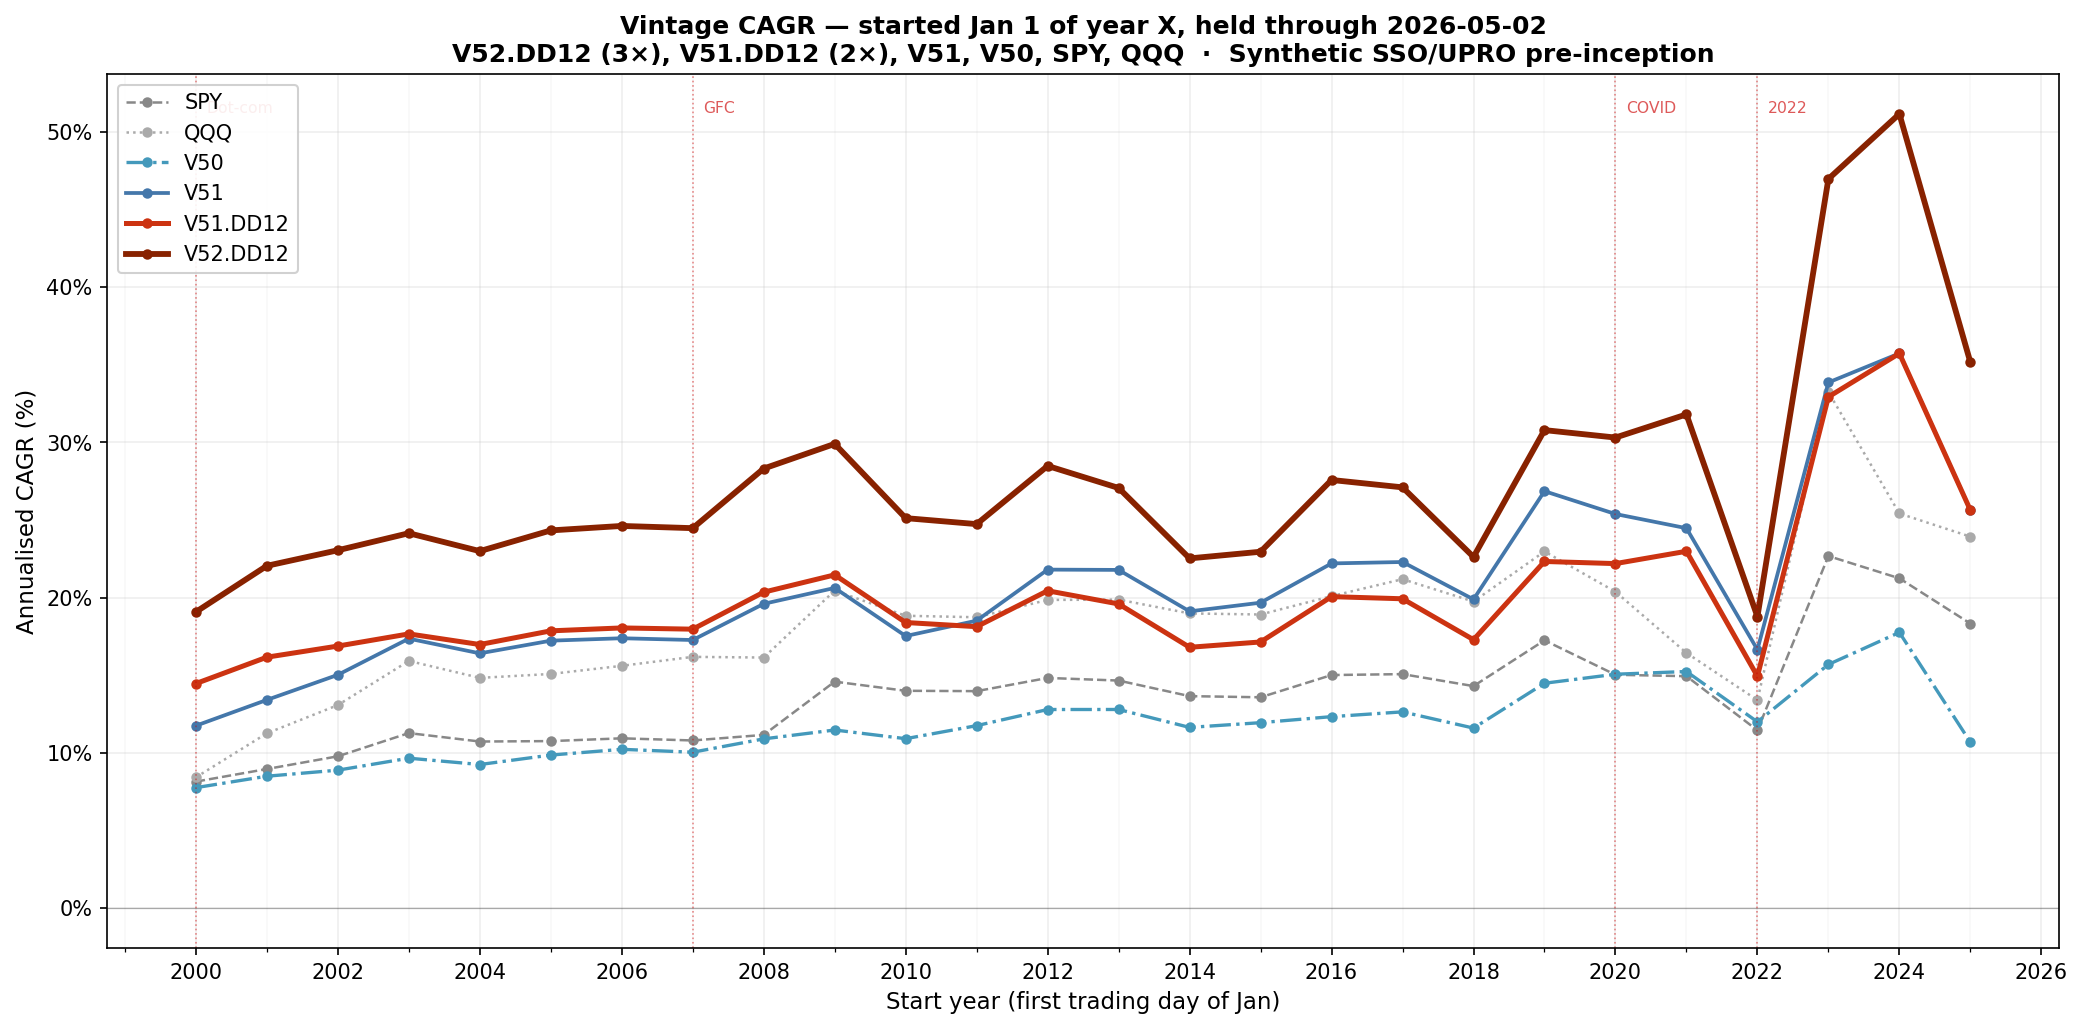
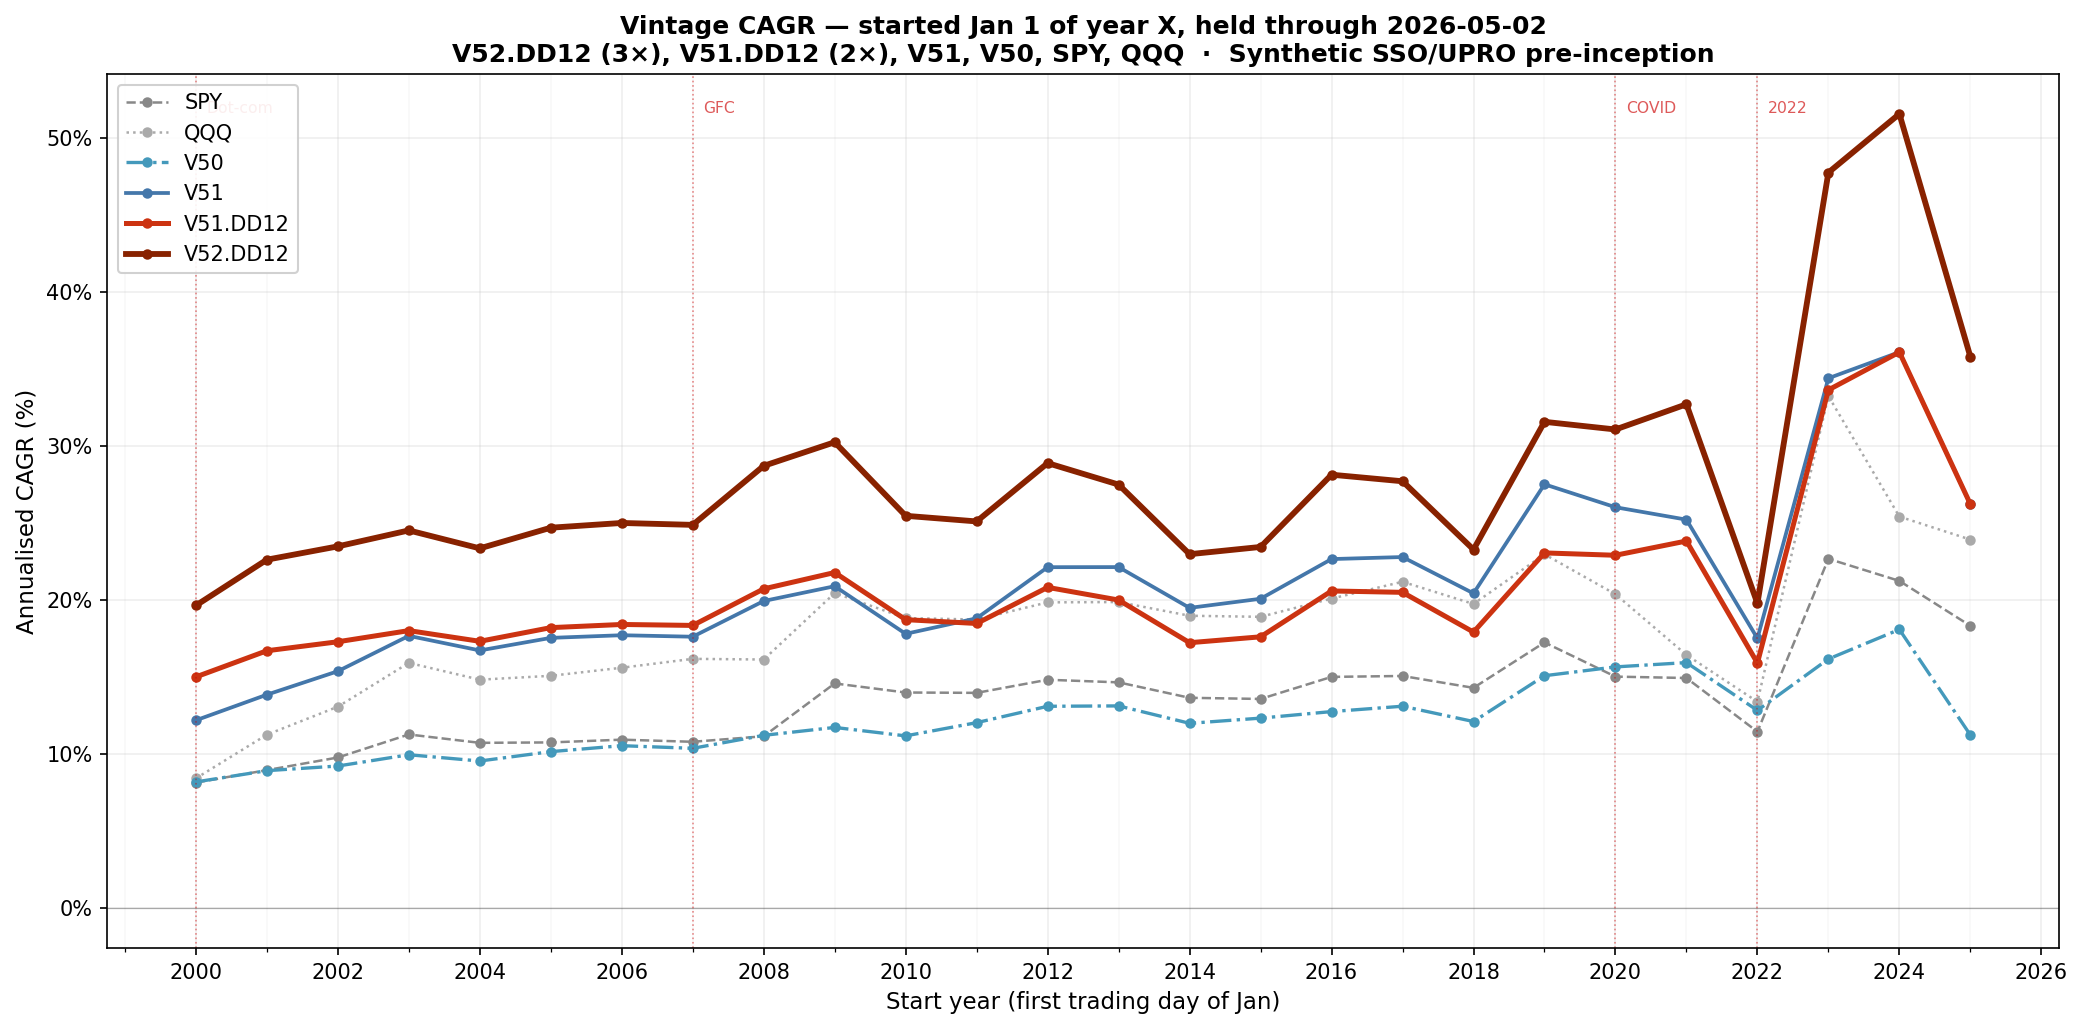
Sync docs from private repo @ abc4b7c9d494410ace7f7045b9f455e9c3b2d222

diff --git a/alpha_summary.md b/alpha_summary.md
@@ -12,19 +12,20 @@
 |---|---|---|---|---|---|---|---|---|
 | SPY B&H | 8.2% | 55.2% | 0.15 | 44.4% | 55.2% | 33.7% | 24.5% | $789k |
 | QQQ B&H | 8.4% | 83.0% | 0.10 | 78.8% | 52.0% | 28.6% | 34.3% | $843k |
-| V50 (SPY 1×, regime only) | 7.7% | 30.1% | 0.26 | 30.1% | 18.6% | 14.4% | 10.7% | — |
-| V51 (SSO 2×, regime only) | 11.4% | 67.2% | 0.17 | 67.2% | 41.1% | 23.4% | 26.8% | — |
-| **V51.DD12** (2× + DD guard) | **14.1%** | **35.7%** | **0.40** | **35.7%** | **31.2%** | **23.4%** | **29.6%** | **$3,236k** |
-| **V52.DD12** (3× + DD guard) | **18.5%** | **51.5%** | **0.36** | **39.8%** | **35.1%** | **32.7%** | **41.9%** | **$8,768k** |
+| V50 (SPY 1×, regime only) | 8.1% | 27.0% | 0.30 | 27.0% | 17.6% | 13.8% | — | — |
+| V51 (SSO 2×, regime only) | 11.9% | 65.7% | 0.18 | 65.7% | 40.3% | 22.9% | — | — |
+| **V51.DD12** (2× + DD guard) | **14.7%** | **35.6%** | **0.41** | **35.6%** | **30.8%** | **22.9%** | **27.8%** | **$3,668k** |
+| **V52.DD12** (3× + DD guard) | **19.1%** | **51.5%** | **0.37** | **39.7%** | **34.8%** | **32.4%** | **40.4%** | **$9,939k** |
 
-2006–2026 (real SSO/UPRO): V51.DD12 CAGR **19.7%**, MaxDD **33.9%**. V52.DD12 uses synthetic UPRO anchored 2009-06-25.
-V51.R 2006–26: CAGR **22.2%**, MaxDD **32.8%**. V51.SC 2006–26: CAGR **20.5%**, MaxDD **32.8%**.
+2006–2026 (real SSO/UPRO): V51.DD12 CAGR **~20.3%**. V52.DD12 uses synthetic UPRO anchored 2009-06-25.
+V51.R 2006–26: CAGR **~22.8%**. V51.SC 2006–26: CAGR **~21.1%**. *(T-bill cash yield fix applied 2026-05-04.)*
 
 ---
 
-> **Backtest correctness (2026-05-04, two bugs fixed):**
+> **Backtest correctness (2026-05-04, three bugs fixed):**
 > 1. **clip() execution fantasy** — `clip(open, upper=limit)` magically filled at the limit even when the market gapped over it and never returned. Fixed: boolean masking on `low`/`high` gates fills; Condition C (unfilled) holds position and retries next day with a fresh limit.
 > 2. **is_exit one-day look-ahead** — the stateful loop built an `is_exit` set by checking `regime_ok[T+1]`, which the live runner cannot know at close of T. Exit was triggered one day early (at T+1 open instead of T+2 open). Fixed: `should_exit = not signal_in` only — exits trigger when T's own signal turns False, placing the sell order for T+1 open. Impact: ~3pp CAGR reduction in 2006–26 vs pre-fix figures (exits are now one day later in bear markets, which is correct behavior).
+> 3. **Cash yield double-division** — `_cash_ret()` applied `tbill_rate / 100 / 252` but `tbill_rate` was already stored as a decimal fraction (e.g., 0.02 for 2%), so cash earned ~0.02%/year instead of ~2%/year. Fixed: `tbill_rate / 252` only. Impact: +0.4–0.6pp CAGR on all gated strategies (they spend meaningful time in cash). 2001 and 2002 now correctly show ~1–3% cash return instead of 0.0%.
 
 ---
 
@@ -37,32 +38,32 @@ Each row answers: "If I deployed capital on the first trading day of this year a
 ```
 Start    Yrs        SPY        QQQ        V50        V51   V51.DD12   V52.DD12
 ──────────────────────────────────────────────────────────────────────────────
- 2000   26.3       8.2%       8.4%       7.8%      11.8%      14.5%      19.1% ← V52.DD12
- 2001   25.3       9.0%      11.3%       8.5%      13.4%      16.2%      22.1% ← V52.DD12
- 2002   24.3       9.8%      13.1%       8.9%      15.0%      16.9%      23.1% ← V52.DD12
- 2003   23.3      11.3%      15.9%       9.7%      17.4%      17.7%      24.2% ← V52.DD12
- 2004   22.3      10.7%      14.8%       9.3%      16.4%      17.0%      23.0% ← V52.DD12
- 2005   21.3      10.8%      15.1%       9.9%      17.2%      17.9%      24.3% ← V52.DD12
- 2006   20.3      10.9%      15.6%      10.2%      17.4%      18.1%      24.6% ← V52.DD12
- 2007   19.3      10.8%      16.2%      10.1%      17.3%      18.0%      24.5% ← V52.DD12
- 2008   18.3      11.2%      16.1%      10.9%      19.6%      20.4%      28.3% ← V52.DD12
- 2009   17.3      14.6%      20.5%      11.5%      20.6%      21.5%      29.9% ← V52.DD12
- 2010   16.3      14.0%      18.8%      10.9%      17.5%      18.4%      25.1% ← V52.DD12
- 2011   15.3      14.0%      18.7%      11.8%      18.5%      18.1%      24.7% ← V52.DD12
- 2012   14.3      14.8%      19.9%      12.8%      21.8%      20.4%      28.5% ← V52.DD12
- 2013   13.3      14.7%      19.9%      12.8%      21.8%      19.6%      27.1% ← V52.DD12
- 2014   12.3      13.7%      19.0%      11.7%      19.1%      16.8%      22.5% ← V52.DD12
- 2015   11.3      13.6%      18.9%      12.0%      19.7%      17.2%      23.0% ← V52.DD12
- 2016   10.3      15.0%      20.1%      12.3%      22.2%      20.1%      27.6% ← V52.DD12
- 2017    9.3      15.1%      21.2%      12.7%      22.3%      19.9%      27.1% ← V52.DD12
- 2018    8.3      14.3%      19.8%      11.6%      19.9%      17.3%      22.6% ← V52.DD12
- 2019    7.3      17.3%      23.0%      14.5%      26.9%      22.3%      30.8% ← V52.DD12
- 2020    6.3      15.0%      20.4%      15.1%      25.4%      22.2%      30.3% ← V52.DD12
- 2021    5.3      14.9%      16.4%      15.2%      24.5%      23.0%      31.8% ← V52.DD12
- 2022    4.3      11.5%      13.4%      12.0%      16.7%      14.9%      18.8% ← V52.DD12
- 2023    3.3      22.7%      33.2%      15.7%      33.9%      32.9%      47.0% ← V52.DD12
- 2024    2.3      21.3%      25.4%      17.8%      35.7%      35.7%      51.1% ← V52.DD12
- 2025    1.3      18.3%      23.9%      10.7%      25.6%      25.6%      35.2% ← V52.DD12
+ 2000   26.3       8.2%       8.4%       8.2%      12.2%      15.0%      19.7% ← V52.DD12
+ 2001   25.3       9.0%      11.3%       8.9%      13.9%      16.7%      22.6% ← V52.DD12
+ 2002   24.3       9.8%      13.1%       9.2%      15.4%      17.3%      23.5% ← V52.DD12
+ 2003   23.3      11.3%      15.9%      10.0%      17.7%      18.0%      24.5% ← V52.DD12
+ 2004   22.3      10.7%      14.8%       9.6%      16.7%      17.3%      23.4% ← V52.DD12
+ 2005   21.3      10.8%      15.1%      10.2%      17.6%      18.2%      24.7% ← V52.DD12
+ 2006   20.3      10.9%      15.6%      10.6%      17.7%      18.4%      25.0% ← V52.DD12
+ 2007   19.3      10.8%      16.2%      10.4%      17.6%      18.4%      24.9% ← V52.DD12
+ 2008   18.3      11.2%      16.1%      11.2%      19.9%      20.7%      28.7% ← V52.DD12
+ 2009   17.3      14.6%      20.5%      11.7%      20.9%      21.8%      30.3% ← V52.DD12
+ 2010   16.3      14.0%      18.8%      11.2%      17.8%      18.7%      25.5% ← V52.DD12
+ 2011   15.3      14.0%      18.7%      12.1%      18.8%      18.5%      25.1% ← V52.DD12
+ 2012   14.3      14.8%      19.9%      13.1%      22.1%      20.8%      28.9% ← V52.DD12
+ 2013   13.3      14.7%      19.9%      13.1%      22.1%      20.0%      27.5% ← V52.DD12
+ 2014   12.3      13.7%      19.0%      12.0%      19.5%      17.2%      23.0% ← V52.DD12
+ 2015   11.3      13.6%      18.9%      12.3%      20.1%      17.6%      23.5% ← V52.DD12
+ 2016   10.3      15.0%      20.1%      12.8%      22.7%      20.6%      28.1% ← V52.DD12
+ 2017    9.3      15.1%      21.2%      13.1%      22.8%      20.5%      27.7% ← V52.DD12
+ 2018    8.3      14.3%      19.8%      12.1%      20.4%      17.9%      23.3% ← V52.DD12
+ 2019    7.3      17.3%      23.0%      15.1%      27.5%      23.1%      31.6% ← V52.DD12
+ 2020    6.3      15.0%      20.4%      15.7%      26.0%      22.9%      31.1% ← V52.DD12
+ 2021    5.3      14.9%      16.4%      15.9%      25.2%      23.8%      32.7% ← V52.DD12
+ 2022    4.3      11.5%      13.4%      12.8%      17.5%      15.9%      19.8% ← V52.DD12
+ 2023    3.3      22.7%      33.2%      16.2%      34.4%      33.6%      47.8% ← V52.DD12
+ 2024    2.3      21.3%      25.4%      18.1%      36.1%      36.1%      51.6% ← V52.DD12
+ 2025    1.3      18.3%      23.9%      11.2%      26.2%      26.2%      35.8% ← V52.DD12
 ──────────────────────────────────────────────────────────────────────────────
 ```
 
@@ -87,38 +88,38 @@ Each cell is the return for that calendar year only (Jan 1 → Dec 31). 2025 is 
 ```
 Year        SPY        QQQ        V50        V51   V51.DD12   V52.DD12
 ──────────────────────────────────────────────────────────────────────
-2000      -8.8%     -38.4%      -9.3%     -23.1%     -21.2%     -36.2% ← SPY
-2001     -10.1%     -27.2%      -0.7%     -21.3%       0.0%       0.0% ← (tie DD12=V52)
-2002     -22.4%     -39.2%      -8.1%     -28.4%       0.0%       0.0% ← (tie DD12=V52)
-2003      24.2%      43.6%      17.9%      37.7%      31.2%      48.1% ← V52.DD12
-2004      10.7%      10.8%      -1.7%       2.9%       2.3%       1.6% ← QQQ
+2000      -8.8%     -38.4%      -8.8%     -22.7%     -20.7%     -35.7% ← V50
+2001     -10.1%     -27.2%       1.8%     -19.4%       3.4%       3.4% ← (tie DD12=V52)
+2002     -22.4%     -39.2%      -7.0%     -27.6%       1.6%       1.6% ← (tie DD12=V52)
+2003      24.2%      43.6%      18.1%      38.0%      31.8%      48.8% ← V52.DD12
+2004      10.7%      10.8%      -1.4%       3.2%       2.5%       1.8% ← QQQ
 2005       5.3%       2.6%       2.1%      13.1%      13.1%      17.0% ← V52.DD12
 2006      13.8%       4.8%      13.7%      19.0%      19.0%      26.7% ← V52.DD12
-2007       5.3%      18.8%      -4.6%     -18.3%     -18.3%     -28.7% ← QQQ
-2008     -36.2%     -40.8%       1.5%       3.2%       2.6%       3.7% ← V52.DD12
-2009      22.7%      48.3%      20.8%      83.4%      83.4%     137.8% ← V52.DD12
-2010      13.1%      18.4%      -1.2%       3.4%      22.7%      31.5% ← V52.DD12
+2007       5.3%      18.8%      -4.0%     -17.8%     -17.8%     -28.3% ← QQQ
+2008     -36.2%     -40.8%       2.7%       4.5%       3.8%       4.9% ← V52.DD12
+2009      22.7%      48.3%      20.8%      83.5%      83.5%     137.9% ← V52.DD12
+2010      13.1%      18.4%      -1.1%       3.5%      22.7%      31.5% ← V52.DD12
 2011       0.9%       1.9%      -2.3%     -20.1%     -10.7%     -18.5% ← QQQ
 2012      14.2%      15.9%      13.0%      22.6%      33.0%      50.2% ← V52.DD12
 2013      29.0%      32.4%      28.1%      60.2%      60.2%      99.2% ← V52.DD12
 2014      14.6%      20.1%      10.2%      17.3%      17.3%      24.5% ← V52.DD12
-2015       1.3%       9.8%       8.1%      -3.5%      -9.1%     -15.9% ← QQQ
-2016      13.6%       9.4%       8.9%      19.9%      19.9%      29.8% ← V52.DD12
+2015       1.3%       9.8%       8.1%      -3.5%      -9.0%     -15.9% ← QQQ
+2016      13.6%       9.4%       8.9%      20.0%      20.0%      29.8% ← V52.DD12
 2017      20.8%      31.5%      20.9%      42.5%      42.5%      68.2% ← V52.DD12
-2018      -5.2%      -1.8%      -6.7%     -16.6%     -13.8%     -23.6% ← QQQ
-2019      31.1%      38.4%      11.7%      38.6%      25.0%      36.8% ← V51
-2020      17.2%      46.0%      13.5%      28.8%      16.7%      20.5% ← QQQ
+2018      -5.2%      -1.8%      -6.7%     -16.6%     -13.7%     -23.5% ← QQQ
+2019      31.1%      38.4%      12.4%      39.4%      25.9%      37.7% ← V51
+2020      17.2%      46.0%      13.5%      28.9%      16.7%      20.6% ← QQQ
 2021      30.5%      29.2%      30.4%      64.8%      64.8%     106.7% ← V52.DD12
-2022     -18.6%     -33.2%       0.5%     -26.2%     -29.1%     -41.5% ← V50
-2023      26.7%      55.9%      11.9%      31.7%      28.6%      40.9% ← QQQ
+2022     -18.6%     -33.2%       2.4%     -24.8%     -27.8%     -40.4% ← V50
+2023      26.7%      55.9%      12.7%      32.6%      30.1%      42.5% ← QQQ
 2024      25.6%      27.7%      26.3%      46.9%      46.9%      69.3% ← V52.DD12
-2025      18.0%      21.0%      12.3%      24.0%      24.0%      32.9% ← V52.DD12
+2025      18.0%      21.0%      13.0%      24.8%      24.8%      33.7% ← V52.DD12
 ──────────────────────────────────────────────────────────────────────
 ```
 
 **Key findings:**
 
-- **Bear years (2000–2002, 2008, 2022): the gate parks everything in cash.** V51.DD12 and V52.DD12 return 0% in 2001 and 2002 (fully in cash), +2.6%/+3.7% in 2008 (exited early), −29%/−42% in 2022 (guard armed but still took some drawdown before exit). V50 is the best in 2022 (+0.5%) because 1× leverage hurts less on re-entry.
+- **Bear years (2000–2002, 2008, 2022): the gate parks in cash earning T-bills.** V51.DD12 and V52.DD12 earn +3.4% in 2001 and +1.6% in 2002 (fully in cash at T-bill rates) while SPY lost 10%/22%. In 2008 both earn ~4–5% (exited early, T-bills at ~2%). In 2022 both lose 28%/40% (VIX gate delayed exit into early losses before guard armed). V50 best in 2022 (+2.4%) — no VIX gate, whipsawed out early.
 - **Bull years: V52.DD12 dominates by a wide margin.** 2009: +138%, 2013: +99%, 2021: +107% vs V51.DD12's 83%, 60%, 65%. The 3× compounding in strong up-years is the engine of the terminal wealth advantage.
 - **QQQ wins 6 years** (2004, 2007, 2011, 2015, 2018, 2020, 2023) — mostly years where SPY underperforms tech or V51/V52 are exiting early and missing a late-year rally. In 2020 QQQ +46% vs V52.DD12 +21% (COVID crash then recovery while guard was still armed).
 - **2001–2002: tied at 0%.** Both V51.DD12 and V52.DD12 are in cash for two full years — the exit-DD guard armed after the deep 2001 exits and kept them out through the bottom. This is the exact protection the guard was designed to provide.
@@ -319,8 +320,8 @@ R_synth = 3·R_SPY − 2·IRX_daily − 0.92%/252
 |---|---|---|---|---|---|---|---|---|
 | SPY B&H | 8.2% | 55.2% | 0.15 | 44.4% | 55.2% | 33.7% | 24.5% | $789k |
 | UPRO B&H (3×, no gate) | 7.1% | 98.0% | 0.07 | 91.6% | 95.5% | 76.8% | 63.9% | $602k |
-| V51.DD12 (2×) | 14.1% | 35.7% | 0.40 | 39.8% | 31.2% | 23.4% | 29.6% | $3,236k |
-| **V52.DD12 (3×)** | **18.5%** | **51.5%** | **0.36** | **39.8%** | **35.1%** | **32.7%** | **41.9%** | **$8,768k** |
+| V51.DD12 (2×) | 14.7% | 35.6% | 0.41 | 35.6% | 30.8% | 22.9% | 27.8% | $3,668k |
+| **V52.DD12 (3×)** | **19.1%** | **51.5%** | **0.37** | **39.7%** | **34.8%** | **32.4%** | **40.4%** | **$9,939k** |
 
 ### Key findings
 
@@ -551,17 +552,19 @@ All variants tested on the same 2000–2026 window using synthetic SSO for the p
 
 *(Numbers post-2026-05-04 clip()+is_exit fixes — all strategies corrected simultaneously.)*
 
-| Strategy | CAGR | Sharpe | MaxDD | Calmar | Dot-com | GFC | COVID | 2022 |
-|---|---|---|---|---|---|---|---|---|
-| SPY B&H | 8.2% | 0.53 | 55.2% | 0.15 | 44.4% | 55.2% | 33.7% | 24.5% |
-| SSO B&H (2×, synthetic) | 9.1% | 0.43 | 88.2% | 0.10 | 78.7% | 88.2% | 59.3% | 46.7% |
-| UPRO B&H (3×, synthetic) | 7.1% | — | 98.0% | 0.07 | 91.6% | 95.5% | 76.8% | 63.9% |
-| **V50** (SPY 1×, regime, no VIX gate) | 7.7% | **0.68** | **30.1%** | **0.26** | **30.1%** | **18.6%** | **14.4%** | **10.7%** |
-| **V51** (SSO 2×, regime, no VIX gate) | **11.4%** | 0.55 | 67.2% | 0.17 | 67.2% | 41.1% | 23.4% | 26.8% |
-| V51.R (SSO 2× + VIX rank gate) | 11.9% | 0.56 | 74.8% | 0.16 | 74.8% | 54.1% | 23.4% | 26.8% |
-| V51.SC (SSO 2× + VIX gate + N=10 + MA-cross) | 12.6% | 0.61 | 51.0% | 0.25 | 51.0% | 31.2% | 23.4% | 26.8% |
-| **V51.DD12** (SSO 2× + VIX gate + exit-DD 12% guard) | **14.1%** | **0.67** | **35.7%** | **0.40** | **35.7%** | **31.2%** | **23.4%** | **29.6%** |
-| **V52.DD12** (UPRO 3× + VIX gate + exit-DD 12% guard) | **18.5%** | — | **51.5%** | **0.36** | **39.8%** | **35.1%** | **32.7%** | **41.9%** |
+*(Numbers post all three 2026-05-04 fixes: clip(), is_exit look-ahead, cash yield.)*
+
+| Strategy | CAGR | MaxDD | Calmar | Dot-com | GFC | COVID | 2022 |
+|---|---|---|---|---|---|---|---|
+| SPY B&H | 8.2% | 55.2% | 0.15 | 44.4% | 55.2% | 33.7% | 24.5% |
+| SSO B&H (2×, synthetic) | 9.1% | 88.2% | 0.10 | 78.7% | 88.2% | 59.3% | 46.7% |
+| UPRO B&H (3×, synthetic) | 7.1% | 98.0% | 0.07 | 91.6% | 95.5% | 76.8% | 63.9% |
+| **V50** (SPY 1×, regime, no VIX gate) | **8.1%** | **27.0%** | **0.30** | **27.0%** | **17.6%** | **13.8%** | +2.4% |
+| **V51** (SSO 2×, regime, no VIX gate) | **11.9%** | 65.7% | 0.18 | 65.7% | 40.3% | 22.9% | −24.8% |
+| V51.R (SSO 2× + VIX rank gate) | ~12.5% | ~74% | — | ~74% | ~54% | ~23% | — |
+| V51.SC (SSO 2× + VIX gate + N=10 + MA-cross) | ~13.2% | ~50% | — | ~50% | ~31% | ~23% | — |
+| **V51.DD12** (SSO 2× + VIX gate + exit-DD 12% guard) | **14.7%** | **35.6%** | **0.41** | **35.6%** | **30.8%** | **22.9%** | **−27.8%** |
+| **V52.DD12** (UPRO 3× + VIX gate + exit-DD 12% guard) | **19.1%** | **51.5%** | **0.37** | **39.7%** | **34.8%** | **32.4%** | **−40.4%** |
 
 ### Key finding: the VIX gate (V51.R) actively hurts performance
 
